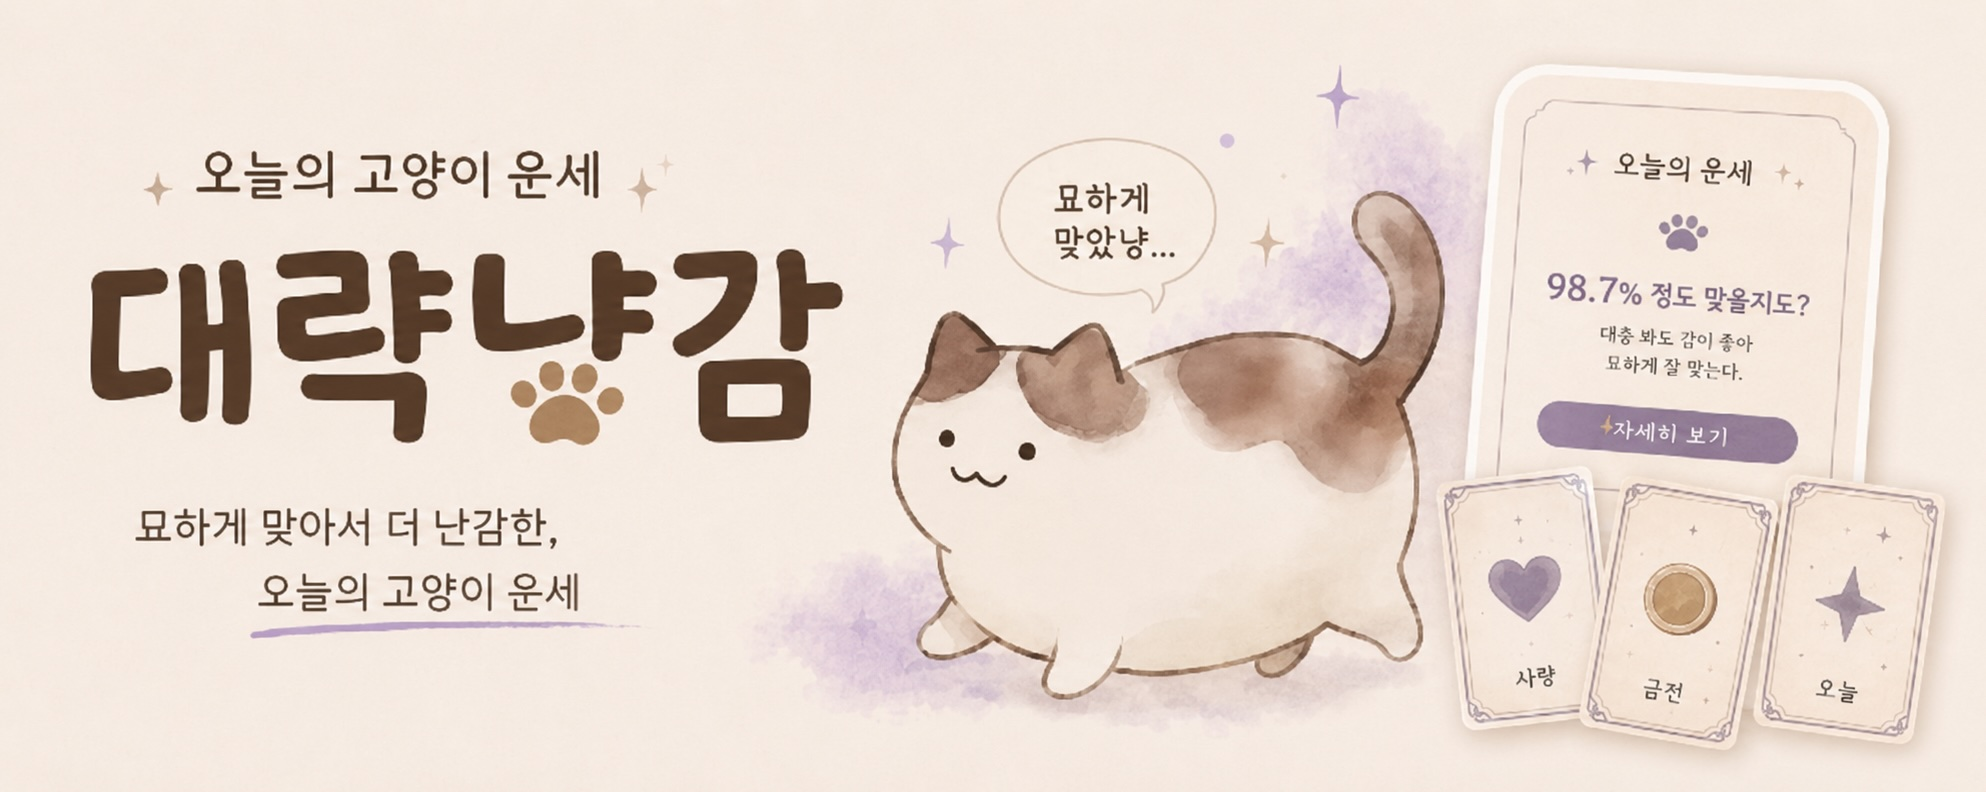
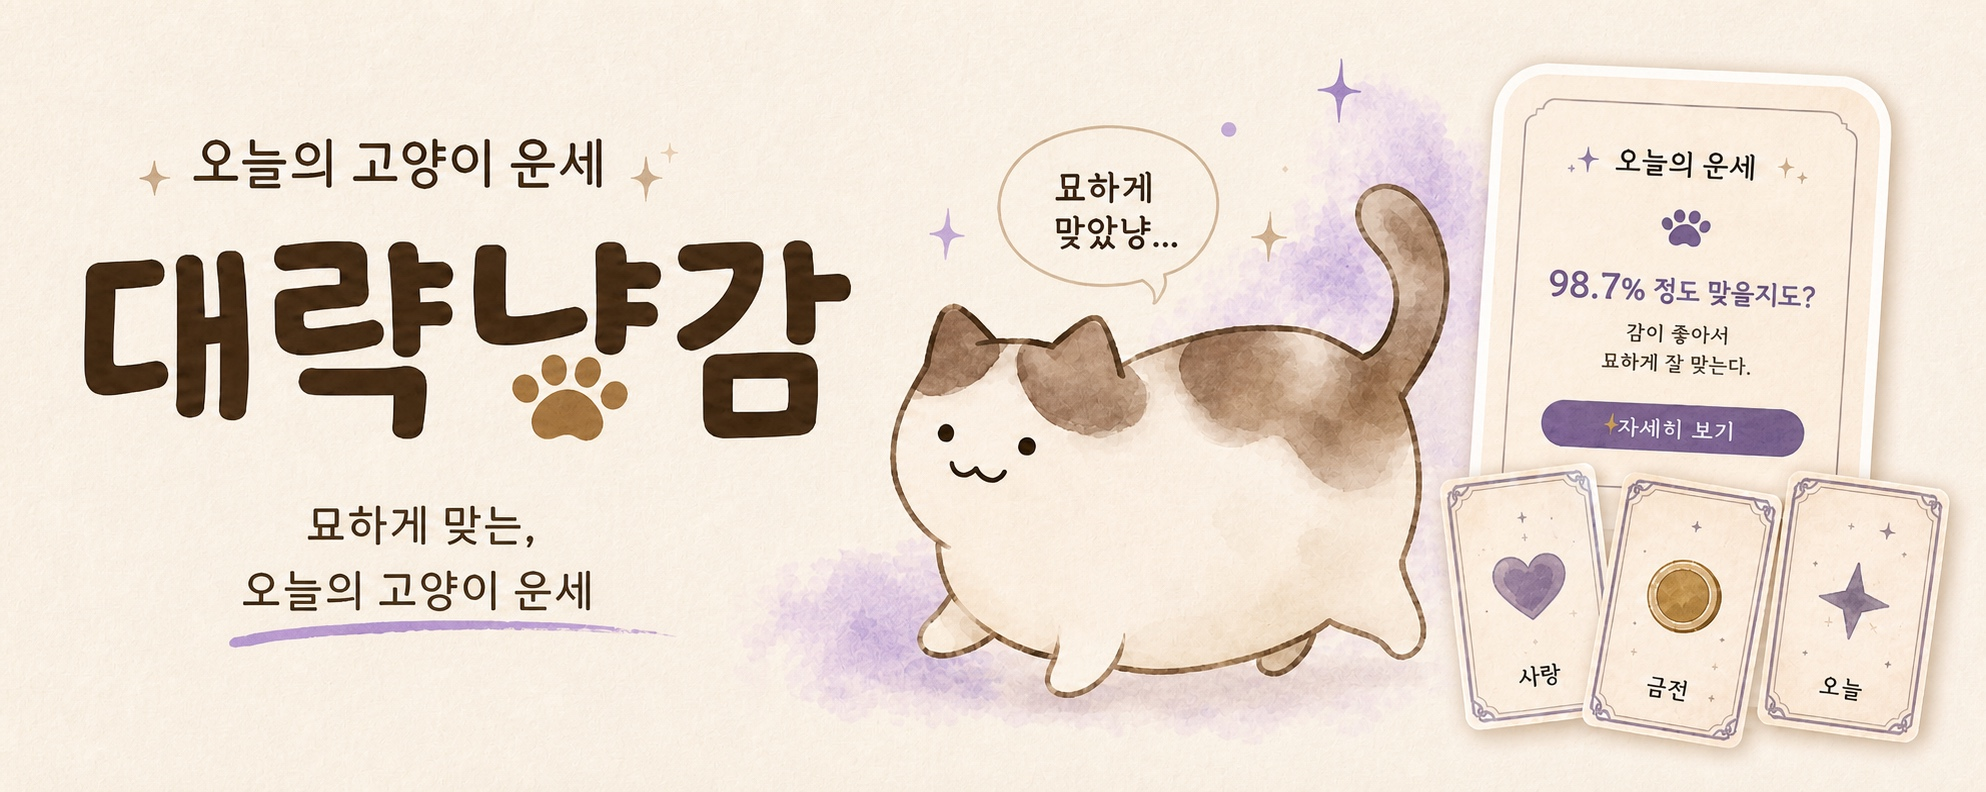
fix: 냥감 KO 배너 카피 교정 — 부정 자백 제거 (구 톤 → 확정 톤)
배너는 7/2 제작이라 7/10 확정된 톤(marketing-plan §4: 부정 자백 카피 전면
지양 — 유료 세운 사주의 신뢰를 깎기 때문)을 못 받은 상태였다.

- 좌하단: "묘하게 맞아서 더 난감한," → "묘하게 맞는,"
- 폰 목업: "대충 봐도 감이 좋아" → "감이 좋아서"
- img alt 도 같이 교정

codex image_gen 재생성(원본을 -i 앵커로). 1986x792 원본과 동일 크기.
그림은 재생성이라 미세 차이 있으나 두목 검수 통과.
원본은 _original/ 에 보존 — 구글플레이 등록 등 재사용 대비.

EN 배너는 이미 긍정 톤("Mysteriously spot-on")이라 미변경.

diff --git a/purrhaps/index.html b/purrhaps/index.html
@@ -284,7 +284,7 @@
 
   <section class="hero-banner">
     <span class="eyebrow">— Our third app</span>
-    <img class="app-banner" src="/assets/images/purrhaps/banner-ko.jpg" alt="대략냥감 — 오늘의 고양이 운세. 묘하게 맞아서 더 난감한.">
+    <img class="app-banner" src="/assets/images/purrhaps/banner-ko.jpg" alt="대략냥감 — 묘하게 맞는, 오늘의 고양이 운세.">
     <div class="hero-status">
       <span class="soon-badge">곧 출시 · Coming Soon</span>
       <p class="lede">